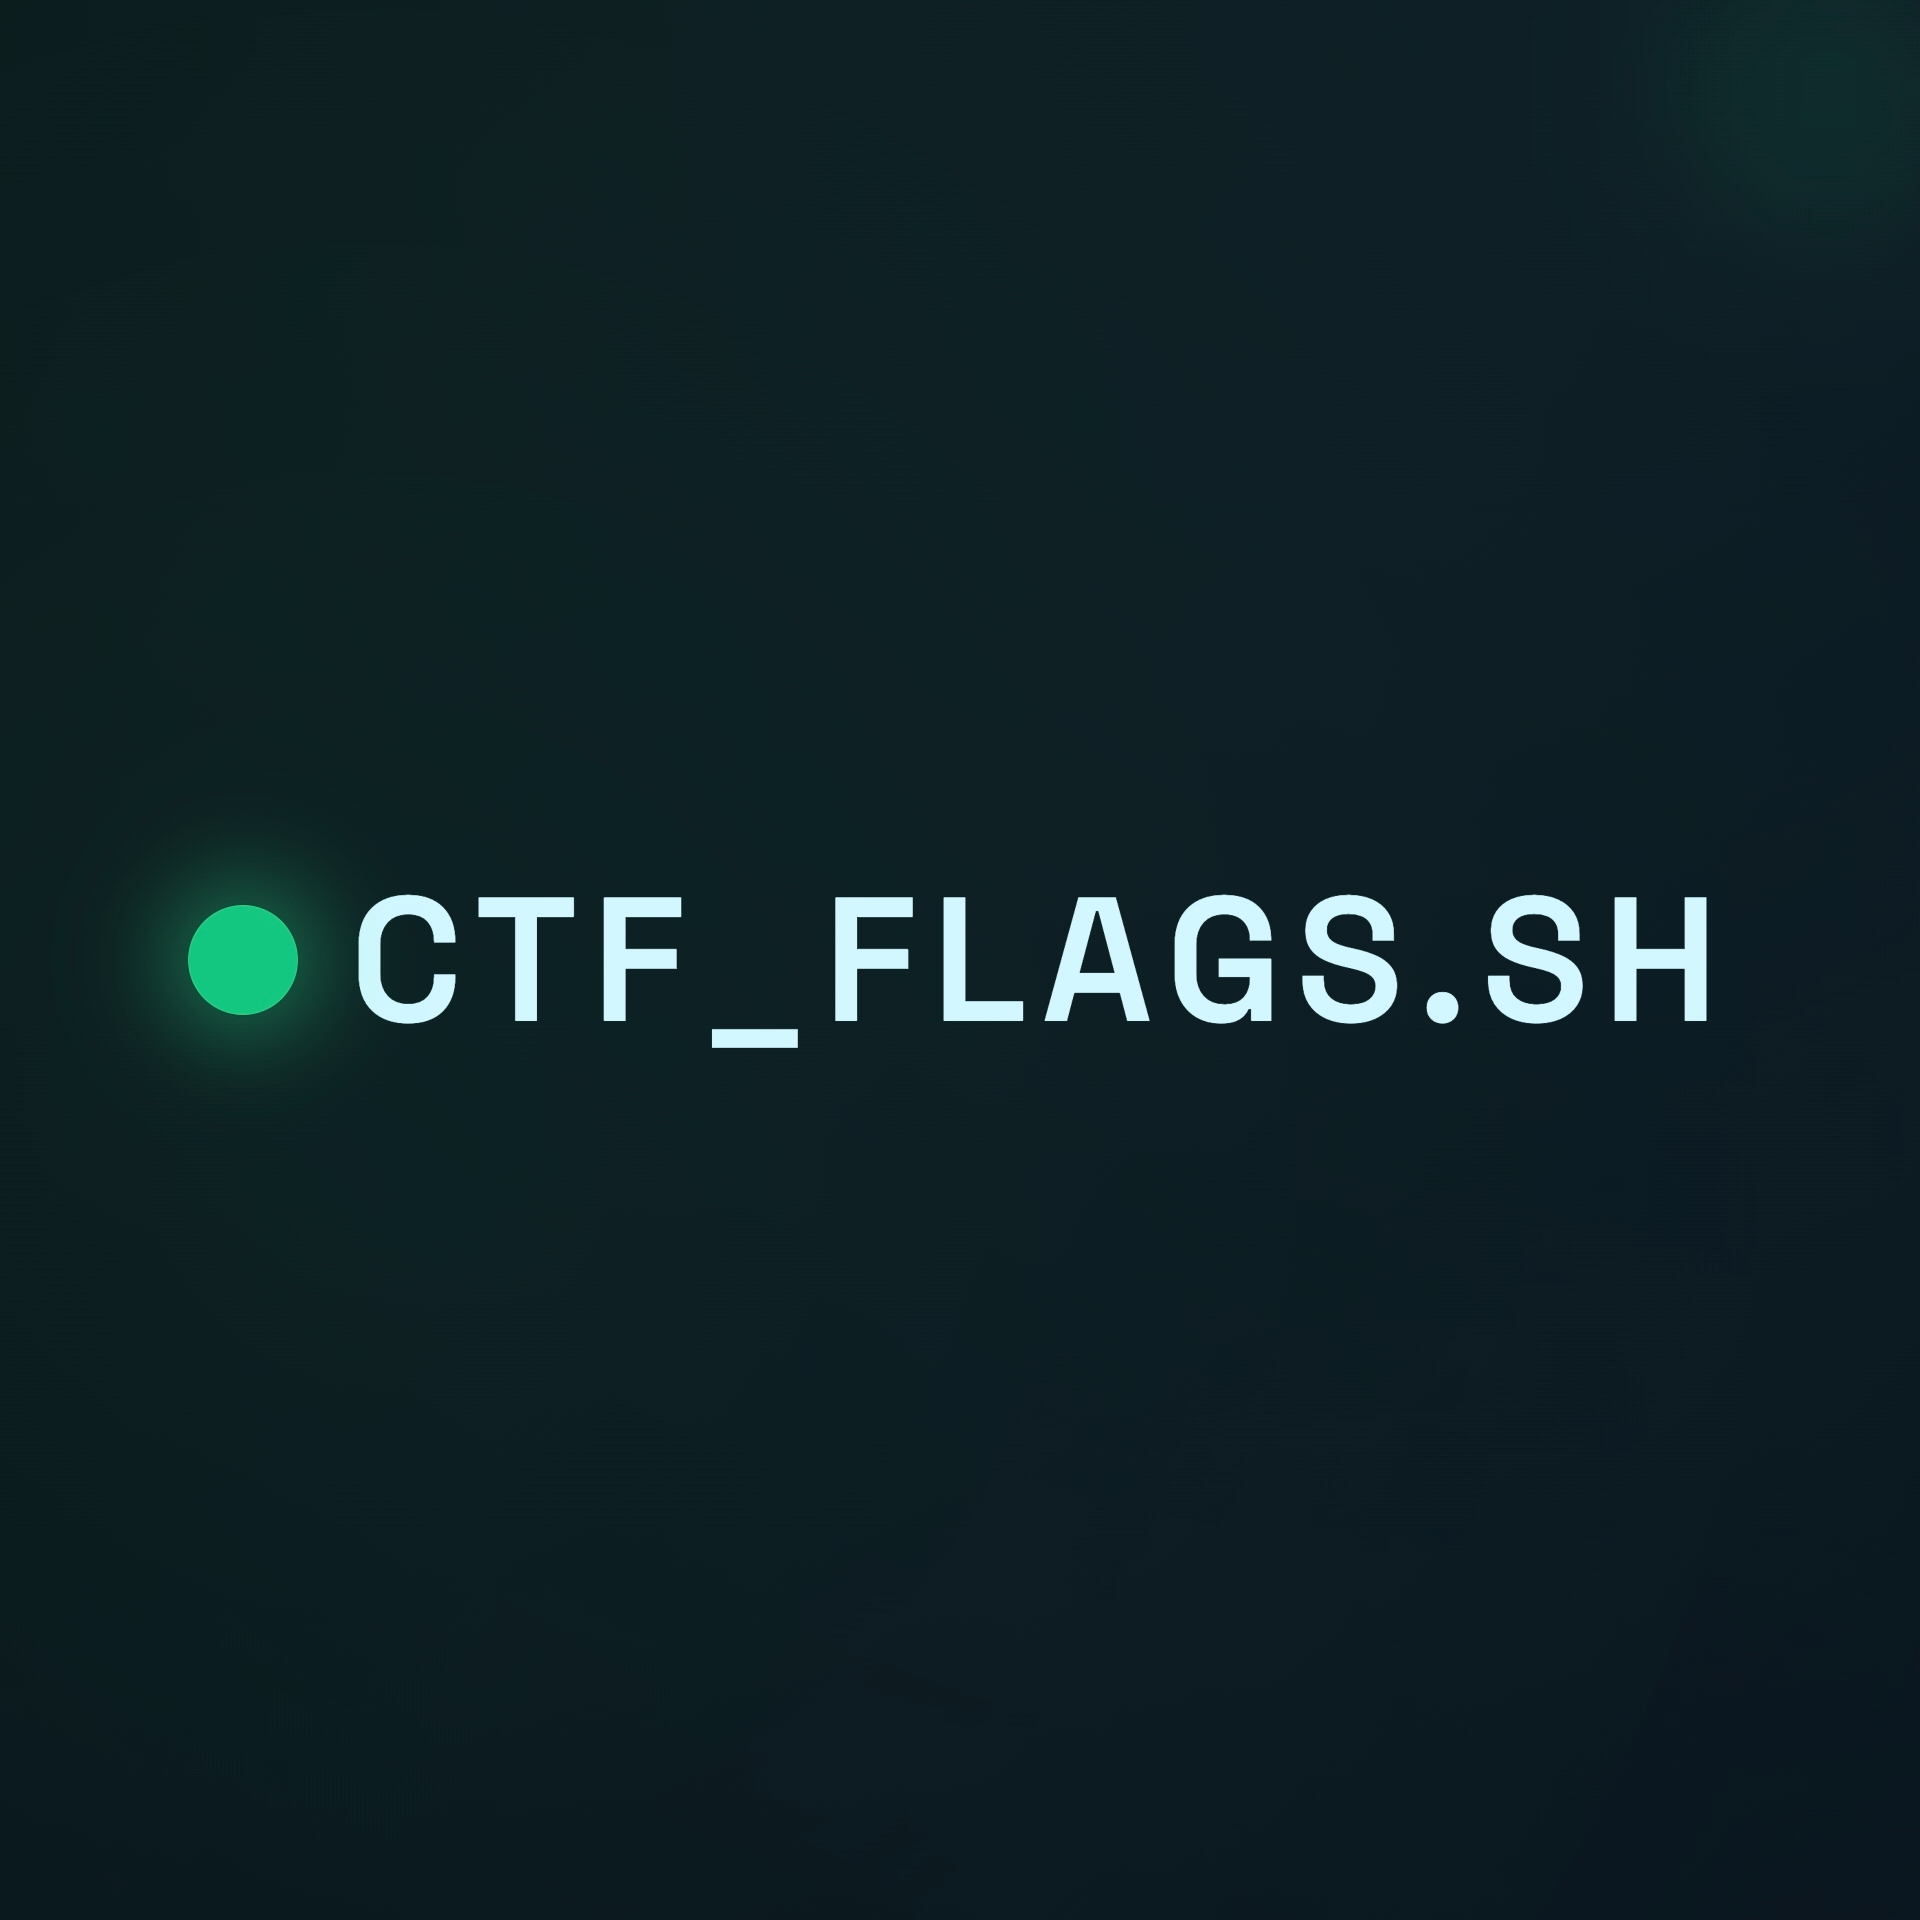
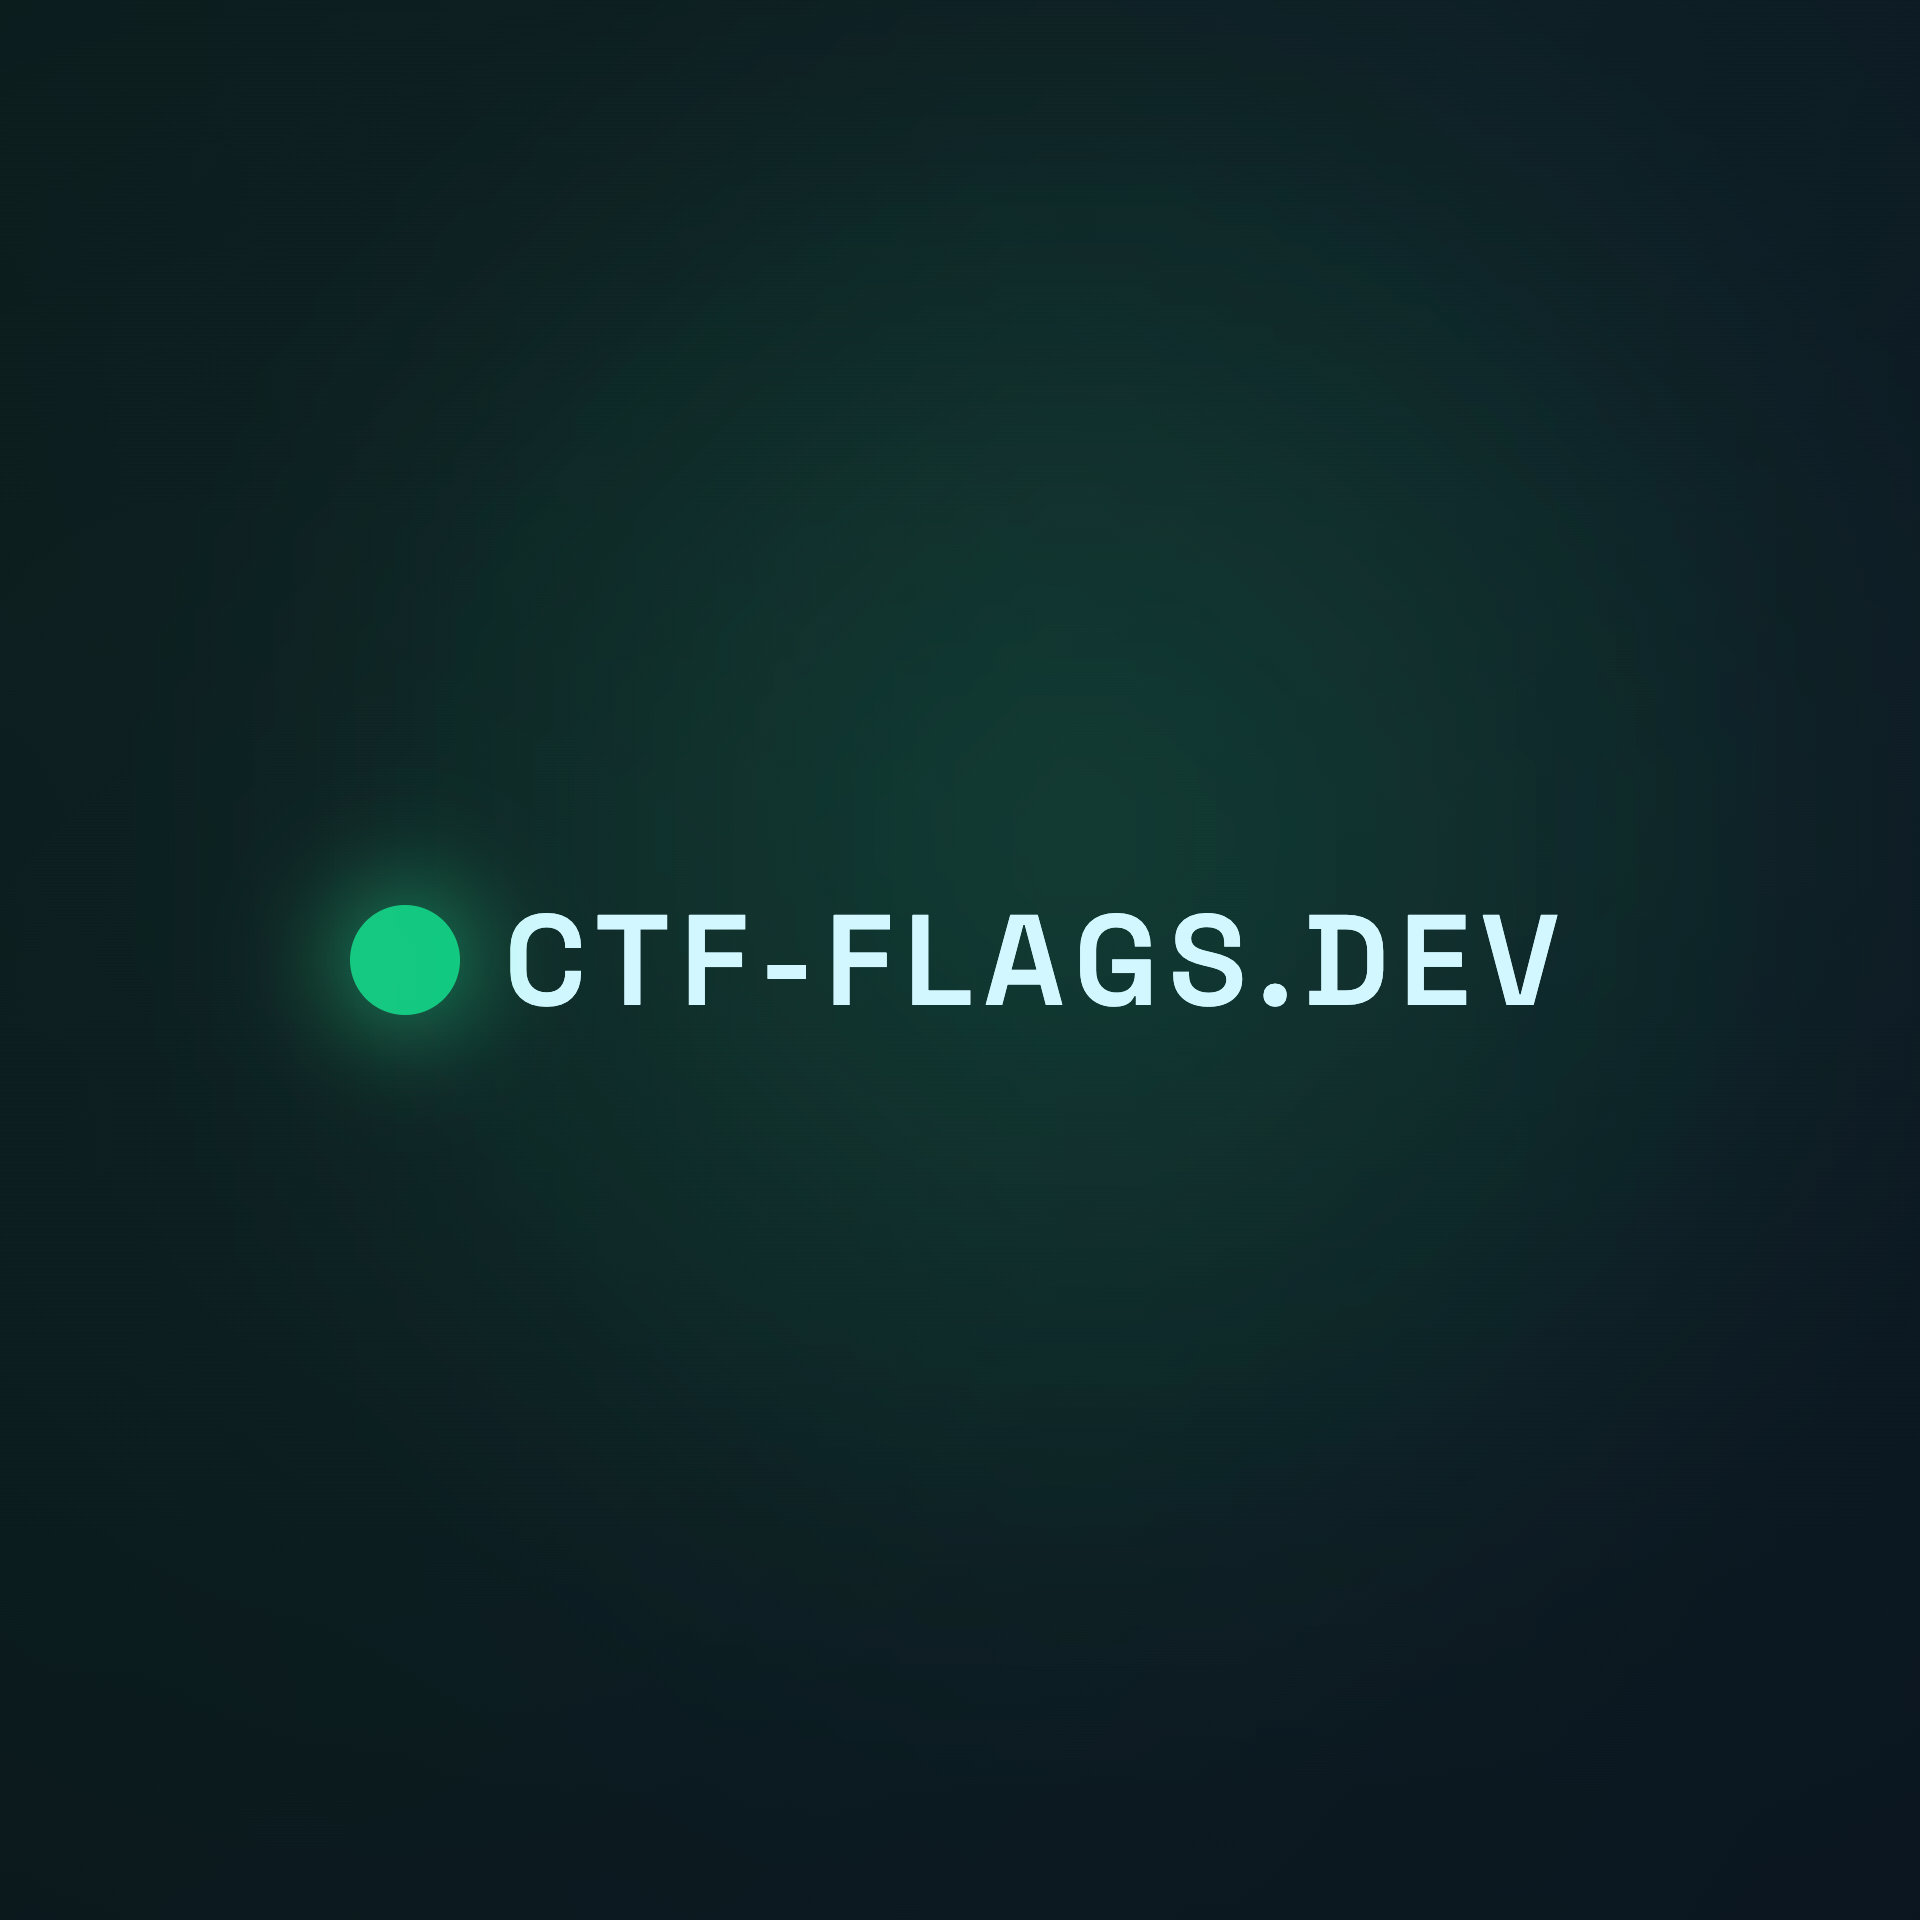
refactor: rename application to ctf-flags.dev

Changed region(s): [[0.0625, 0.3438, 0.9062, 0.5625]]

diff --git a/_layouts/default.html b/_layouts/default.html
@@ -19,39 +19,39 @@
     <meta name="viewport" content="width=device-width, height=device-height, initial-scale=1" />
 
     <!-- Primary Meta Tags -->
-    <meta name="title" content="ctf_flags.sh" />
+    <meta name="title" content="ctf-flags.dev" />
     <meta name="description" content="CTF writeups, challenge solutions, and cybersecurity insights from a solo enthusiast. Explore practical walkthroughs and tips for infosec challenges." />
     <meta name="author" content="xabito" />
     <meta name="keywords" content="ctf, writeups, challenges, infosec, cybersecurity" />
-    <meta name="theme-color" content="#e66f19" />
+    <meta name="theme-color" content="#112c2f" />
 
     <!-- Vendor Tags -->
-    <meta name="apple-mobile-web-app-title" content="ctf_flags.sh" />
-    <meta name="msapplication-TileColor" content="#e66f19" />
+    <meta name="apple-mobile-web-app-title" content="ctf-flags.dev" />
+    <meta name="msapplication-TileColor" content="#112c2f" />
 
     <!-- Open Graph / Facebook -->
     <meta property="og:type" content="website" />
-    <meta property="og:url" content="https://ctf.dvzr.io" />
-    <meta property="og:title" content="ctf_flags.sh" />
+    <meta property="og:url" content="https://ctf-flags.dev/" />
+    <meta property="og:title" content="ctf-flags.dev" />
     <meta property="og:description" content="CTF writeups, challenge solutions, and cybersecurity insights from a solo enthusiast. Explore practical walkthroughs and tips for infosec challenges." />
-    <meta property="og:image" content="https://ctf.dvzr.io//caption.png" />
+    <meta property="og:image" content="https://ctf-flags.dev/caption.png" />
     <meta property="og:locale" content="en_US" />
 
     <!-- Twitter -->
     <meta property="twitter:card" content="summary_large_image" />
-    <meta property="twitter:url" content="https://ctf.dvzr.io" />
-    <meta property="twitter:title" content="ctf_flags.sh" />
+    <meta property="twitter:url" content="https://ctf-flags.dev/" />
+    <meta property="twitter:title" content="ctf-flags.dev" />
     <meta property="twitter:description" content="CTF writeups, challenge solutions, and cybersecurity insights from a solo enthusiast. Explore practical walkthroughs and tips for infosec challenges." />
-    <meta property="twitter:image" content="https://ctf.dvzr.io//caption.png" />
+    <meta property="twitter:image" content="https://ctf-flags.dev/caption.png" />
 
     <!-- Canonical URL -->
-    <link rel="canonical" href="https://ctf.dvzr.io" />
+    <link rel="canonical" href="https://ctf-flags.dev/" />
 
     <!-- Favicons -->
-    <link rel="icon" type="image/png" href="https://ctf.dvzr.io/favicon-512.png" sizes="any" />
-    <link rel="icon" type="image/png" href="https://ctf.dvzr.io/favicon-96.png" sizes="96x96" />
-    <link rel="icon" href="https://ctf.dvzr.io/favicon.ico" sizes="32x32" />
-    <link rel="apple-touch-icon" href="https://ctf.dvzr.io/icon-180.png" sizes="180x180" />
+    <link rel="icon" type="image/png" href="https://ctf-flags.dev/favicon-512.png" sizes="512x512" />
+    <link rel="icon" type="image/png" href="https://ctf-flags.dev/favicon-96.png" sizes="96x96" />
+    <link rel="icon" href="https://ctf-flags.dev/favicon.ico" sizes="32x32" />
+    <link rel="apple-touch-icon" href="https://ctf-flags.dev/icon-180.png" sizes="180x180" />
 
     <link rel="preconnect" href="https://fonts.googleapis.com" />
     <link rel="preconnect" href="https://fonts.gstatic.com" crossorigin />

diff --git a/README.md b/README.md
@@ -1,4 +1,4 @@
-# ctf_flags.sh
+# ctf-flags.dev
 
 A modern, terminal-inspired GitHub Pages blog for collecting Capture The Flag writeups. The site is powered by
 [Jekyll](https://jekyllrb.com/) and renders Markdown posts with a neon console aesthetic that stays
